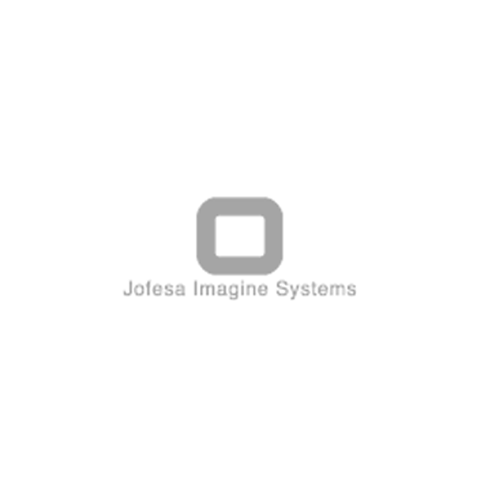
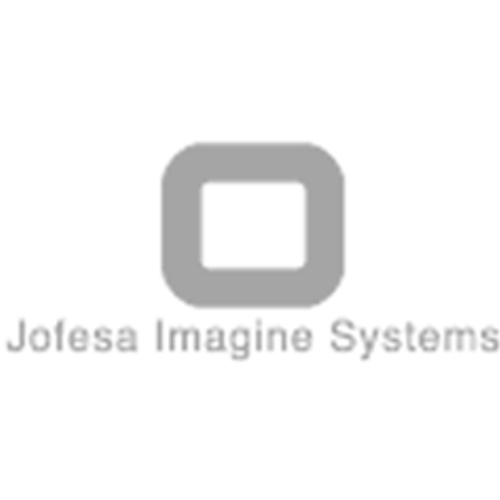
resize images

Changed region(s): [[0.0, 0.27, 0.72, 0.72], [0.66, 0.63, 1.0, 0.72]]

diff --git a/index.html b/index.html
@@ -4,6 +4,7 @@
     <meta charset="utf-8">
     <meta http-equiv="X-UA-Compatible" content="IE=edge">
     <meta name="viewport" content="width=device-width, initial-scale=1">
+    <link rel="icon" href="icon.png">
     <!-- The above 3 meta tags *must* come first in the head; any other head content must come *after* these tags -->
     <title>Marlasca de México</title>
 
@@ -152,7 +153,6 @@
       <hr class="featurette-divider">
       <!-- FOOTER -->
       <footer>
-        <p class="pull-right">Designed by <span class="glyphicon glyphicon-fire"></span></p>
         <p>&copy; 2017 Marlasca de Mexico, SA de CV.</p>
       </footer>
 
